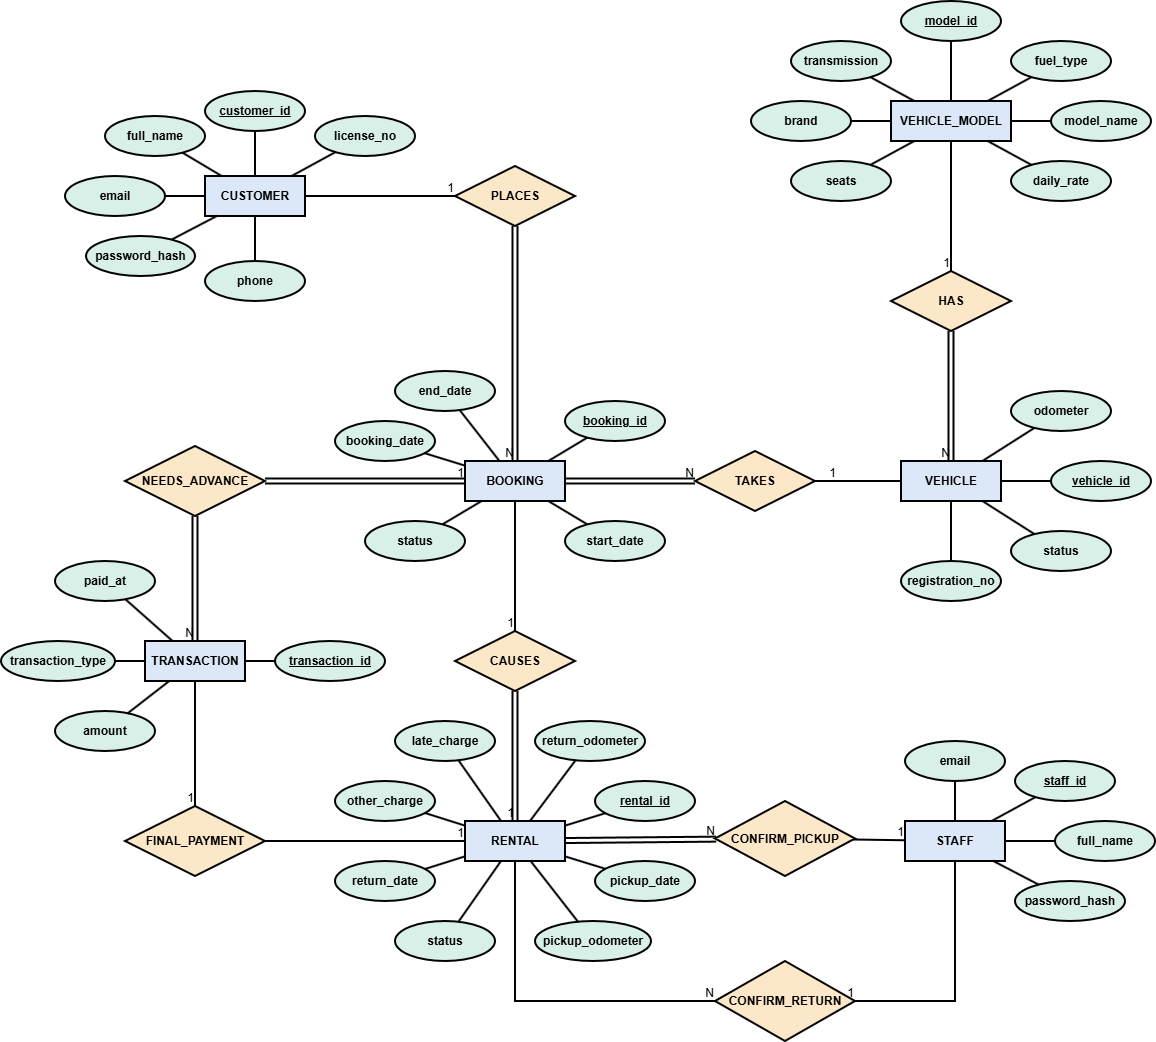
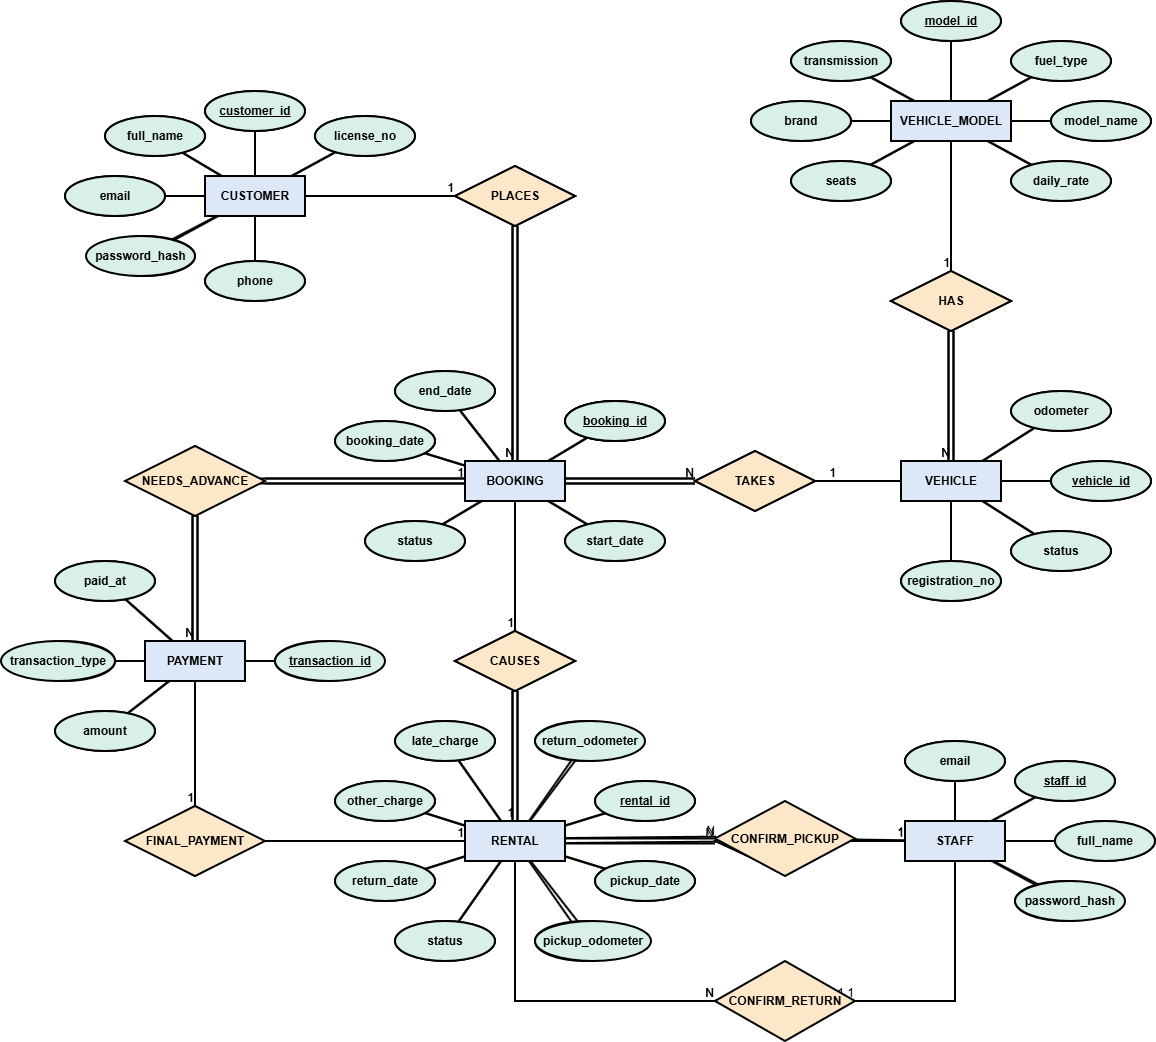
Update README, seed.sql, ER Diagram

diff --git a/README.md b/README.md
@@ -5,7 +5,7 @@ DBMS course project (Semester 3): a single-branch car rental system with two rol
 **Stack:** PostgreSQL, Python (psycopg), Streamlit.
 
 ## Features
-- **Customer:** register and log in, browse and filter vehicles, book with an advance payment, view and cancel bookings, manage profile.
+- **Customer:** log in, browse and filter vehicles, book with an advance payment, view and cancel bookings, view profile.
 - **Staff/Admin:** view active rentals and bookings, confirm pickup, process returns (late and other charges, final payment), manage vehicles and models, change vehicle status, reassign a booking to another vehicle, view vehicle history.
 
 ## Setup
@@ -16,16 +16,23 @@ DBMS course project (Semester 3): a single-branch car rental system with two rol
 5. Load schema and sample data: `psql -d car_rental -f db/schema.sql`, then `psql -d car_rental -f db/seed.sql`
 6. Run the app from the project root: `streamlit run app/streamlit_app.py`
 
-To run the report queries: `psql -d car_rental -f db/queries.sql`
+## Demo accounts
+All accounts created by `db/seed.sql` use the password `password123`.
+- **Staff:** `staff@carrental.com`, `staff2@carrental.com`
+- **Staff ID:** `1`, `2`
+- **Customers:** `asha@example.com`, `ravi@example.com`, `meera@example.com`
+
+## Optional: reference queries
+`db/queries.sql` is not part of the setup. It holds reference queries and the `booking_summary` view, and can be run after the seed: `psql -d car_rental -f db/queries.sql`
 
 ## Project structure
 - `db/`
   - `schema.sql`: tables and constraints (7 tables)
-  - `seed.sql`: sample data
-  - `queries.sql`: 7 report queries, each labelled with the RDBMS concept it shows, plus the `booking_summary` view
+  - `seed.sql`: sample data and demo accounts
+  - `queries.sql`: reference queries, each labelled with the RDBMS concept it shows, plus the `booking_summary` view
 - `app/`
   - `streamlit_app.py`: landing page
-  - `views/`: Streamlit pages (login, registration, booking, profile, staff dashboard)
+  - `views/`: Streamlit pages (login, booking, profile, staff dashboard)
   - `ui_helpers.py`: shared UI helpers
   - `db.py`: database connection
   - `services.py`: customer and rental functions (booking, pickup, return)
@@ -38,14 +45,14 @@ To run the report queries: `psql -d car_rental -f db/queries.sql`
 ## RDBMS concepts used
 - Primary, foreign and unique keys; NOT NULL, CHECK and DEFAULT constraints
 - ER-to-relational mapping and normalization (BCNF)
-- Joins, aggregates, GROUP BY / HAVING, subqueries, a view
+- Joins (including LEFT JOIN) and aggregates in the admin functions; GROUP BY / HAVING, subqueries and a view in `db/queries.sql`
 - Transactions (a booking and its advance payment commit together or not at all)
 - Concurrency control with `SELECT ... FOR UPDATE` row locking
 
 ## Team
-- **Zap:** database and admin tools
-- **Pranay:** backend customer and rental functions
-- **Akhil:** Streamlit UI
+- **Pavan V S:** database and admin tools
+- **Vedula Laxmana Venkata Pranay:** backend customer and rental functions
+- **Akhil Jagatha:** Streamlit UI
 
 ## Team workflow
 `main` always runs. Work on a branch (`yourname/task`), pull `main` before starting, and merge through a pull request.
